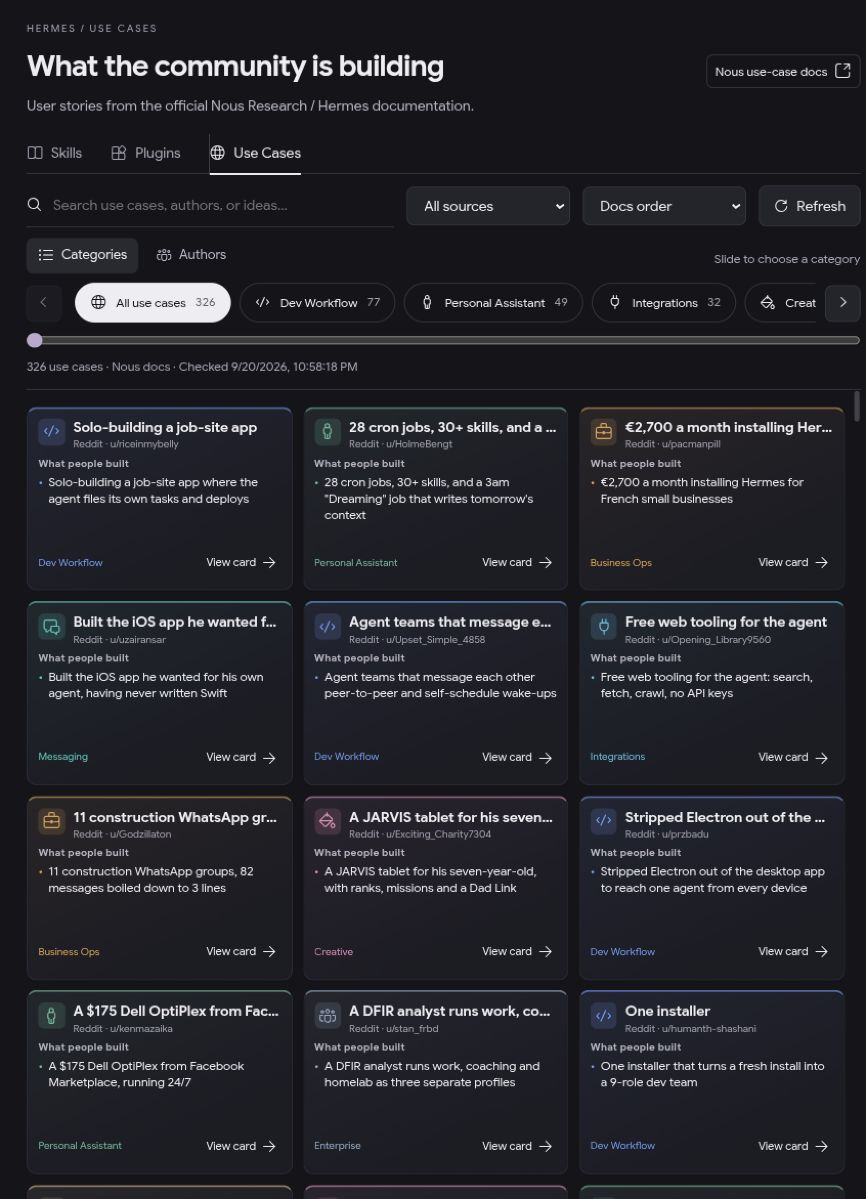
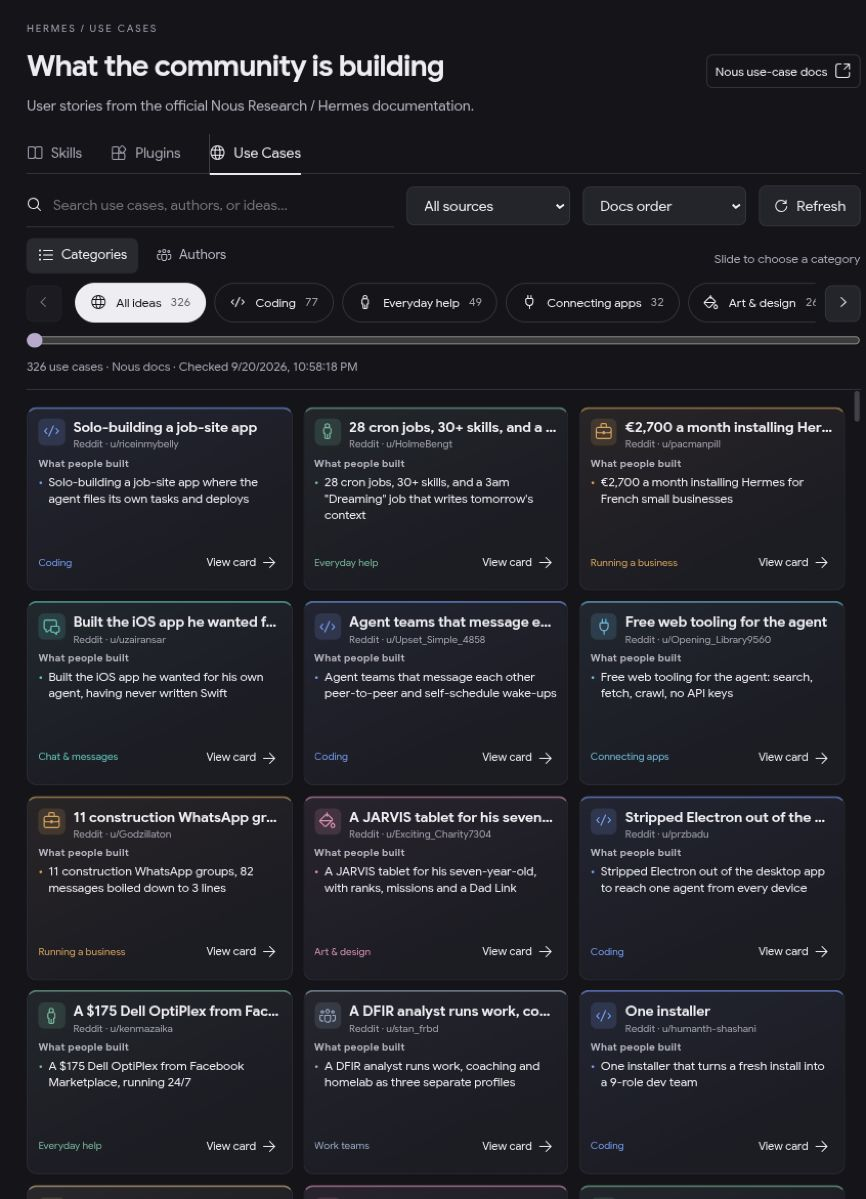
Add build previews and simpler use-case categories

diff --git a/desktop/plugin.js b/desktop/plugin.js
@@ -9,9 +9,15 @@ import {
   DialogContent,
   DialogTitle,
   DialogDescription,
+  Popover, PopoverTrigger, PopoverContent,
 } from "@hermes/plugin-sdk";
 const h = React.createElement;
 const css = `
+.hsl-story-preview{box-sizing:border-box;z-index:100;width:min(360px,calc(100vw - 24px));max-height:min(520px,var(--radix-popover-content-available-height,80vh));overflow:auto;padding:16px;border:1px solid var(--ui-stroke-secondary,#48444f);border-radius:12px;color:var(--ui-text-primary,#eeedf2);background:var(--ui-bg-elevated,#202027);box-shadow:0 16px 48px #0006;font:13px/1.55 system-ui,sans-serif}
+.hsl-story-preview *{box-sizing:border-box}.hsl-story-preview h3{font-size:15px;line-height:1.4;margin:9px 0;overflow-wrap:anywhere}.hsl-story-preview p{margin:8px 0}.hsl-story-preview .preview-kicker{display:flex;align-items:center;justify-content:space-between;gap:10px;font-size:10px;letter-spacing:1px;text-transform:uppercase;color:var(--ui-text-tertiary,#b9b5c6)}
+.hsl-story-preview .preview-meta{color:var(--ui-text-secondary,#bebac9);font-size:11px}.hsl-story-preview blockquote{margin:12px 0 7px;padding:0 0 0 12px;border-left:2px solid var(--preview-accent,#b8aacd);color:var(--ui-text-primary,#eeedf2)}.hsl-story-preview .preview-source{color:var(--ui-text-secondary,#bebac9);font-size:11px}.hsl-story-preview button,.hsl-story-preview a{font:inherit;color:inherit}.hsl-story-preview .preview-close{border:0;background:transparent;color:inherit;cursor:pointer;padding:4px;display:grid;place-items:center}.hsl-story-preview .preview-actions{display:flex;gap:12px;flex-wrap:wrap;align-items:center;margin-top:14px}.hsl-story-preview .project-link{display:inline-flex;align-items:center;gap:6px;font-size:12px;text-decoration:none;border:1px solid var(--ui-stroke-secondary,#48444f);border-radius:6px;padding:7px 10px}.hsl-story-preview a:focus-visible,.hsl-story-preview button:focus-visible{outline:2px solid var(--ui-accent,#b8aacd);outline-offset:3px}
+.hsl-story-preview .preview-video{display:block;position:relative;margin-top:10px;border-radius:8px;overflow:hidden;aspect-ratio:16/9;background:#15151a}.hsl-story-preview .preview-video img{display:block;width:100%;height:100%;object-fit:cover}.hsl-story-preview .preview-video span{position:absolute;bottom:8px;left:8px;padding:3px 7px;border-radius:5px;background:#000c;color:#fff;font-size:11px}
+
 .hsl{height:100%;overflow:auto;color:var(--ui-text-primary,#eeedf2);background:var(--background,#141419);padding:32px clamp(20px,3vw,48px);font:14px/1.55 system-ui,sans-serif;box-sizing:border-box}.hsl *,.hsl-dialog,.hsl-dialog *{box-sizing:border-box}.hsl button,.hsl select,.hsl input,.hsl-dialog button,.hsl-dialog input{font:inherit;color:inherit}.hsl button,.hsl select,.hsl-dialog button{border:1px solid var(--ui-stroke-tertiary,#34343b);border-radius:7px;background:var(--ui-bg-quaternary,#24242b);padding:8px 13px;cursor:pointer}.hsl button:hover,.hsl-dialog button:hover{background:var(--chrome-action-hover,#303038)}.hsl button:disabled,.hsl-dialog button:disabled{opacity:.45;cursor:default}.hsl .primary,.hsl-dialog .primary{background:var(--ui-text-primary,#e9e8ed);color:var(--background,#18181e);border-color:transparent}.hsl .top{display:flex;align-items:center;justify-content:space-between;gap:24px;flex-wrap:wrap}.hsl h1{font-size:29px;letter-spacing:-1px;font-weight:600;margin:0}.hsl h2,.hsl-dialog h2{font-size:22px;letter-spacing:-.5px;margin:8px 0}.hsl p,.hsl-dialog p{margin:5px 0;color:var(--ui-text-secondary,#b8b6c2)}.hsl .eyebrow{font-size:10px;letter-spacing:1.8px;color:var(--ui-text-tertiary,#a6a4b0);margin-bottom:7px}.hsl .target{width:210px}.hsl label,.hsl-dialog label{display:block;font-size:12px;margin-bottom:6px;color:var(--ui-text-secondary,#b8b6c2)}.hsl select{width:100%;min-height:38px}.hsl .toolbar{display:flex;align-items:center;gap:12px;margin:22px 0;flex-wrap:wrap}.hsl input,.hsl-dialog input{min-width:160px;background:transparent;border:1px solid var(--ui-stroke-tertiary,#34343b);border-radius:7px;padding:10px 12px}.hsl .search{flex:1;min-width:220px;display:flex;gap:10px;align-items:center;border-bottom:1px solid var(--ui-stroke-tertiary,#34343b)}.hsl .search input{width:100%;border:0;outline-offset:-2px;padding-left:0}.hsl .filters{display:flex;align-items:center;justify-content:space-between;gap:16px;flex-wrap:wrap;margin-bottom:24px}.hsl .source-filter{width:185px}.hsl .tabs{display:flex;gap:6px;flex-wrap:wrap}.hsl .tabs button{background:transparent;border-color:transparent;color:var(--ui-text-secondary,#b8b6c2)}.hsl .tabs .active{background:var(--ui-bg-quaternary,#292930);color:var(--ui-text-primary,#eeedf2)}.hsl .sections{display:flex;gap:28px;border-bottom:1px solid var(--ui-stroke-tertiary,#34343b);margin-top:28px}.hsl .sections button{border:0;border-radius:0;padding:14px 0;background:transparent;color:var(--ui-text-secondary,#aaa8b5);display:flex;gap:8px;align-items:center}.hsl .sections .active{color:var(--ui-text-primary,#eeedf2);box-shadow:0 2px 0 currentColor}.hsl .grid{display:grid;grid-template-columns:repeat(auto-fill,minmax(min(100%,270px),1fr));gap:16px}.hsl .card{display:flex;flex-direction:column;min-height:192px;padding:22px;border:1px solid var(--ui-stroke-quaternary,#2c2b34);border-radius:12px;background:var(--card,#1c1c23);text-align:left;transition:border-color .15s}.hsl .card:hover{border-color:var(--ui-stroke-primary,#64616f)}.hsl .card-head{display:flex;gap:12px;align-items:center;min-width:0}.hsl .icon{display:grid;place-items:center;flex-shrink:0;width:36px;height:36px;background:var(--ui-bg-quaternary,#292931);border-radius:9px;color:var(--ui-text-secondary,#c5c0d5)}.hsl .name{font-weight:600;font-size:15px;line-height:1.4;overflow-wrap:anywhere}.hsl .source{font-size:11px;color:var(--ui-text-tertiary,#a6a4b0);margin-top:3px}.hsl .desc{font-size:13px;line-height:1.6;margin:16px 0 22px;display:-webkit-box;-webkit-line-clamp:2;-webkit-box-orient:vertical;overflow:hidden;min-height:42px}.hsl .foot{display:flex;justify-content:space-between;align-items:center;gap:8px;margin-top:auto}.hsl .foot button{font-size:12px;padding:5px 0;border:0;background:transparent}.hsl .badge{font-size:11px;color:var(--ui-text-secondary,#b8b6c2)}.hsl .green{color:var(--ui-success,#9ec8ad)}.hsl .amber{color:var(--ui-warning,#d5bb8c)}.hsl .notice,.hsl-dialog .notice{margin:14px 0;padding:14px;border:1px solid var(--ui-stroke-tertiary,#454550);border-radius:8px;white-space:pre-wrap;overflow-wrap:anywhere}.hsl .error,.hsl-dialog .error{color:var(--ui-danger,#e7a1a1)}.hsl .empty{padding:64px 20px;text-align:center}.hsl-dialog{border-radius:12px;width:min(620px,calc(100vw - 32px));max-width:620px;max-height:88vh;overflow:auto;padding:28px;font:14px/1.6 system-ui,sans-serif;color:var(--ui-text-primary,#eeedf2);background:var(--background,#18181e)}.hsl-dialog pre{max-height:40vh;overflow:auto;font:12px/1.7 ui-monospace,monospace;white-space:pre-wrap;overflow-wrap:anywhere;padding:18px;background:var(--ui-bg-quaternary,#22222a);border-radius:8px}.hsl-dialog .detail-actions{display:flex;gap:10px;margin:20px 0 0;align-items:center;flex-wrap:wrap}.hsl .muted,.hsl-dialog .muted{color:var(--ui-text-tertiary,#aaa8b5)}.hsl .counts{font-size:12px;margin:0 0 18px}.hsl .target-hint{font-size:10px;margin-top:6px}.hsl-dialog input{width:100%;margin:4px 0 12px}.hsl button:focus-visible,.hsl input:focus-visible,.hsl select:focus-visible,.hsl-dialog button:focus-visible,.hsl-dialog input:focus-visible{outline:2px solid var(--ui-accent,#b8aacd);outline-offset:3px}@media(min-width:1550px){.hsl .grid{grid-template-columns:repeat(4,minmax(0,1fr))}}@media(max-width:650px){.hsl{padding:20px}.hsl .target{width:100%}.hsl .grid{grid-template-columns:1fr}.hsl .toolbar>button{flex:1}.hsl .search{flex-basis:100%}}
 .hsl{container-type:inline-size;min-width:0;width:100%;overflow-x:hidden}
 .hsl .top>div{min-width:0;max-width:100%}
@@ -6542,12 +6548,82 @@ function storyCardTitle(headline) {
   const clause = headline.split(/: | — | – | where | that | so /)[0].trim();
   return clause.length >= 12 ? clause : headline;
 }
+function storyVideoThumbnail(url) {
+  try {
+    const u = new URL(url);
+    const id = u.hostname === "youtu.be" ? u.pathname.slice(1) : ["youtube.com", "www.youtube.com", "m.youtube.com"].includes(u.hostname) ? u.searchParams.get("v") || u.pathname.match(/^\/(?:shorts|embed)\/([^/]+)$/)?.[1] : "";
+    return u.protocol === "https:" && /^[A-Za-z0-9_-]{11}$/.test(id || "") ? `https://i.ytimg.com/vi/${id}/hqdefault.jpg` : "";
+  } catch { return ""; }
+}
+const STORY_PREVIEWS = new Map();
+function StoryPreviewButton({ ctx, story, revision, onDetails }) {
+  const [open, setOpen] = useState(false), [preview, setPreview] = useState(null), [failed, setFailed] = useState(false), [imageFailed, setImageFailed] = useState(false);
+  const timer = useRef(null), trigger = useRef(null), content = useRef(null), pointer = useRef("");
+  const cancelTimer = () => { clearTimeout(timer.current); };
+  const close = () => { cancelTimer(); setOpen(false); };
+  const laterClose = () => { cancelTimer(); timer.current = setTimeout(() => setOpen(false), 220); };
+  useEffect(() => () => clearTimeout(timer.current), []);
+  useEffect(() => {
+    if (!open) return;
+    let alive = true;
+    setFailed(false); setPreview(null);
+    const key = revision + ":" + story.id;
+    let request = STORY_PREVIEWS.get(key);
+    if (!request) {
+      request = Promise.resolve().then(() => ctx.rest("/community/preview?id=" + encodeURIComponent(story.id)));
+      STORY_PREVIEWS.set(key, request);
+      request.catch(() => STORY_PREVIEWS.delete(key));
+    }
+    request.then(value => {
+      if (alive) {
+        if (!value || typeof value.excerpt !== "string") { setFailed(true); return; }
+        setPreview(value);
+      }
+    }).catch(() => { if (alive) setFailed(true); });
+    const dismissOnScroll = event => { if (!content.current?.contains(event.target)) close(); };
+    document.addEventListener("wheel", dismissOnScroll, true);
+    document.addEventListener("touchmove", dismissOnScroll, true);
+    window.addEventListener("resize", close);
+    return () => { alive = false; document.removeEventListener("wheel", dismissOnScroll, true); document.removeEventListener("touchmove", dismissOnScroll, true); window.removeEventListener("resize", close); };
+  }, [open, ctx, story.id, revision]);
+  const thumbnail = storyVideoThumbnail(story.url);
+  return h(Popover, { open, onOpenChange: value => { if (!value) close(); } },
+    h(PopoverTrigger, { asChild: true }, h("button", {
+      ref: trigger, "aria-label": "View card: " + story.name,
+      onPointerEnter: event => { if (event.pointerType === "mouse") { cancelTimer(); timer.current = setTimeout(() => setOpen(true), 300); } },
+      onPointerLeave: laterClose,
+      onPointerDown: event => { pointer.current = event.pointerType; },
+      onFocus: () => { if (pointer.current !== "touch") { cancelTimer(); setOpen(true); } },
+      onBlur: event => { pointer.current = ""; if (!content.current?.contains(event.relatedTarget)) laterClose(); },
+      onClick: event => { event.preventDefault(); close(); onDetails(); }
+    }, "View card", icon("arrow-right"))),
+    h(PopoverContent, {
+      ref: content, className: "hsl-story-preview", "aria-label": "Build preview: " + story.name,
+      side: "top", align: "end", sideOffset: 8, collisionPadding: 12,
+      style: { "--preview-accent": story.color },
+      onOpenAutoFocus: event => event.preventDefault(), onCloseAutoFocus: event => event.preventDefault(),
+      onPointerEnter: cancelTimer, onPointerLeave: laterClose,
+      onFocusCapture: cancelTimer, onBlurCapture: event => { if (!content.current?.contains(event.relatedTarget) && event.relatedTarget !== trigger.current) laterClose(); }
+    },
+      h("div", { className: "preview-kicker" }, "Build preview", h("button", { className: "preview-close", "aria-label": "Close build preview", onClick: close }, icon("close"))),
+      h("h3", null, story.name), h("p", { className: "preview-meta" }, `${story.source} · ${story.author} · ${story.date}`),
+      thumbnail && !imageFailed && h("div", { className: "preview-video" }, h("img", { src: thumbnail, alt: "Video thumbnail for " + story.name, referrerPolicy: "no-referrer", onError: () => setImageFailed(true) }), h("span", null, "Video preview · YouTube")),
+      preview?.excerpt ? h(React.Fragment, null, h("blockquote", null, preview.excerpt), h("p", { className: "preview-source" }, "Story excerpt · via Nous docs")) : h("p", { className: "preview-source", role: "status" }, failed ? "Preview unavailable. Open the original story to see the build." : preview ? "Open the original story to see this build." : "Loading story preview…"),
+      h("div", { className: "preview-actions" }, h(ProjectLink, { ctx, url: story.url }, thumbnail ? "Watch original video" : "Open original story"), h(ProjectLink, { ctx, url: story.docs_url }, "Nous docs"))));
+}
 function validStoryDirectory(data) {
   return data && Array.isArray(data.projects) && data.projects.length > 0 && Array.isArray(data.categories)
     && data.source_url === COMMUNITY_DIRECTORY.source_url && typeof data.checked_on === "string"
     && data.projects.every(p => p && ["id", "name", "author", "category", "source", "description", "url", "docs_url"].every(k => typeof p[k] === "string") && Array.isArray(p.highlights))
     && data.categories.every(c => c && typeof c.id === "string" && typeof c.label === "string");
 }
+const STORY_CATEGORY_LABELS = {
+  "dev-workflow": "Coding", "personal-assistant": "Everyday help",
+  integrations: "Connecting apps", creative: "Art & design", "business-ops": "Running a business",
+  meta: "Community projects", "cost-optimization": "Saving money", privacy: "Privacy & control",
+  "content-creation": "Making content", research: "Learning & research", enterprise: "Work teams",
+  messaging: "Chat & messages", general: "Other ideas", trading: "Trading & investing", marketing: "Promoting your work"
+};
 function Community({ ctx, onSection }) {
   const [data, setData] = useState(COMMUNITY_DIRECTORY);
   const [refreshing, setRefreshing] = useState(false), [refreshNote, setRefreshNote] = useState(""), [refreshError, setRefreshError] = useState(false);
@@ -6583,7 +6659,10 @@ function Community({ ctx, onSection }) {
       if (generation === requestGeneration.current) setRefreshing(false);
     }
   }
-  const categories = [{ id: "all", label: "All use cases", icon: "globe" }, ...data.categories];
+  const categories = [{ id: "all", label: "All ideas", icon: "globe" }, ...data.categories.map(c => ({
+    ...c, label: STORY_CATEGORY_LABELS[c.id] || c.label,
+    fullLabel: STORY_CATEGORY_LABELS[c.id] ? `${STORY_CATEGORY_LABELS[c.id]} · ${c.label}` : c.label
+  }))];
   const [query, setQuery] = useState(""), [category, setCategory] = useState("all"), [author, setAuthor] = useState("");
   const [mode, setMode] = useState("categories"), [sort, setSort] = useState("curated"), [selected, setSelected] = useState(null);
   const [storySource, setStorySource] = useState("");
@@ -6633,8 +6712,8 @@ function Community({ ctx, onSection }) {
                 h("span", { className: "summary-dot", "aria-hidden": true }, "•"),
                 h("span", { className: "summary-text", title: p.name }, p.name)))),
           h("div", { className: "foot" },
-            h("span", { className: "badge", title: categories.find(c => c.id === p.category)?.label }, categories.find(c => c.id === p.category)?.label),
-            h("button", { onClick: () => setSelected(p), "aria-label": "View card: " + p.name }, "View card", icon("arrow-right")))))) : h("div", { className: "empty" }, h("p", null, "No matching use cases. Try another author, category, source, or search."), h("button", { onClick: clear }, "Reset browsing")),
+            h("span", { className: "badge", title: categories.find(c => c.id === p.category)?.fullLabel }, categories.find(c => c.id === p.category)?.label),
+            h(StoryPreviewButton, { ctx, story: p, revision: data.source_revision, onDetails: () => setSelected(p) }))))) : h("div", { className: "empty" }, h("p", null, "No matching use cases. Try another author, category, source, or search."), h("button", { onClick: clear }, "Reset browsing")),
         h("div", { className: "community-bottom" }, h("p", { className: "muted" }, "Stories from the official docs. Refresh to check for updates. Stories describe users’ experiences; inclusion is not independent verification or endorsement."),
           h(ProjectLink, { ctx, url: data.source_url }, "Browse Nous docs")))),
     h(Dialog, { open: !!selected, onOpenChange: open => { if (!open) setSelected(null); } },

diff --git a/preview/sdk.js b/preview/sdk.js
@@ -1,5 +1,5 @@
 import React from "react";
-import { Dialog as RadixDialog } from "radix-ui";
+import { Dialog as RadixDialog, Popover as RadixPopover } from "radix-ui";
 export const host = {
   state: {
     profile: { get: () => "default", listen: () => () => {} },
@@ -39,4 +39,10 @@ export function DialogContent({ children, ...props }) {
       children,
     ),
   );
+}
+
+export const Popover = RadixPopover.Root, PopoverTrigger = RadixPopover.Trigger;
+export function PopoverContent({ children, ...props }) {
+  return React.createElement(RadixPopover.Portal, null,
+    React.createElement(RadixPopover.Content, props, children));
 }

diff --git a/dashboard/stories.py b/dashboard/stories.py
@@ -144,3 +144,29 @@ def refresh():
         return data
     finally:
         _REFRESH_LOCK.release()
+
+
+_PREVIEW_LOCK = threading.Lock()
+_PREVIEW_CACHE = ('', {})
+
+
+def story_preview(identifier, revision):
+    """Lazy, short excerpts from a fixed official revision; never fetch arbitrary story URLs."""
+    global _PREVIEW_CACHE
+    if not re.fullmatch(r'[0-9a-f]{40}', revision):
+        raise ValueError('Invalid official revision')
+    with _PREVIEW_LOCK:
+        if _PREVIEW_CACHE[0] != revision:
+            rows = fetch_json(f'https://raw.githubusercontent.com/NousResearch/hermes-agent/{revision}/{_DATA_PATH}')
+            convert(rows, revision)
+            previews = {}
+            for row in rows:
+                quote = row.get('quote')
+                words = quote.split() if isinstance(quote, str) else []
+                # A brief attributed excerpt, not a reproduction of the original post.
+                excerpt = ' '.join(words[:24])
+                if len(words) > 24:
+                    excerpt += '…'
+                previews[row['id']] = {'excerpt': excerpt, 'url': row['url'], 'author': row['author']}
+            _PREVIEW_CACHE = (revision, previews)
+        return _PREVIEW_CACHE[1].get(identifier, {'excerpt': ''})

diff --git a/test_library.py b/test_library.py
@@ -63,6 +63,18 @@ class LibraryTest(unittest.TestCase):
             self.assertEqual(client.get('/community?refresh=true').status_code, 502)
             self.assertEqual(client.get('/community').status_code, 200)
 
+    def test_story_preview_uses_only_known_story_and_fixed_revision(self):
+        from unittest.mock import patch
+        data = client.get('/community').json()
+        with patch.object(api._stories, 'story_preview', return_value={'excerpt': 'A brief source preview.'}) as preview:
+            response = client.get('/community/preview', params={'id': data['projects'][0]['id']})
+            self.assertEqual(response.status_code, 200)
+            preview.assert_called_once_with(data['projects'][0]['id'], data['source_revision'])
+            self.assertEqual(client.get('/community/preview', params={'id': 'https://example.com'}).status_code, 404)
+            self.assertEqual(preview.call_count, 1)
+        with patch.object(api._stories, 'story_preview', side_effect=TimeoutError('offline')):
+            self.assertEqual(client.get('/community/preview', params={'id': data['projects'][0]['id']}).status_code, 502)
+
     @classmethod
     def setUpClass(cls):
         cls.source = root/'source'

diff --git a/test_stories.py b/test_stories.py
@@ -80,6 +80,21 @@ class StoriesTest(unittest.TestCase):
         with self.assertRaises(ValueError):
             stories.NoRedirect().redirect_request(None, None, 302, None, None, 'https://example.com')
 
+    def test_preview_is_short_and_cached_by_revision(self):
+        stories._PREVIEW_CACHE = ('', {})
+        row = {**STORY, 'quote': ' '.join('word' + str(i) for i in range(50))}
+        with patch.object(stories, 'fetch_json', return_value=[row]) as fetch:
+            preview = stories.story_preview(row['id'], SHA)
+            self.assertEqual(len(preview['excerpt'].split()), 24)
+            self.assertTrue(preview['excerpt'].endswith('…'))
+            self.assertEqual(preview['author'], row['author'])
+            self.assertEqual(preview['url'], row['url'])
+            self.assertEqual(stories.story_preview(row['id'], SHA), preview)
+            fetch.assert_called_once()
+        self.assertFalse(self.path.exists())
+        with self.assertRaises(ValueError):
+            stories.story_preview(row['id'], '../main')
+
     def test_write_failure_preserves_cache(self):
         self.refresh()
         saved = self.path.read_bytes()

diff --git a/dashboard/plugin_api.py b/dashboard/plugin_api.py
@@ -41,6 +41,17 @@ async def community(refresh: bool = False):
     return await asyncio.to_thread(_stories.read_cached) or json.loads(Path(__file__).with_name('community.json').read_text())
 
 
+@router.get('/community/preview')
+async def community_preview(id: str):
+    data = await community()
+    if not any(p['id'] == id for p in data['projects']):
+        raise HTTPException(404, 'This story is no longer in the collection.')
+    try:
+        return await asyncio.to_thread(_stories.story_preview, id, data['source_revision'])
+    except Exception as exc:
+        raise HTTPException(502, 'Story preview unavailable. Open the original story instead.') from exc
+
+
 def sources():
     """Explicit local roots; no client-supplied filesystem paths."""
     cfg = Path(__file__).with_name('sources.local.json')

diff --git a/README.md b/README.md
@@ -19,7 +19,7 @@ This is an independent plugin by Bikash Joshi. It does not replace Hermes' built
 
 ## Requirements and status
 
-**Early community release, v0.5.1.** Tested on Linux (Omarchy), with Hermes source revision `bce20d0b1f08518b499d06109f2b027519ddeca5`. macOS and Windows are not yet verified. Hermes' internal Python and Desktop SDK APIs can change between updates.
+**Early community release, v0.5.2.** Tested on Linux (Omarchy), with Hermes source revision `bce20d0b1f08518b499d06109f2b027519ddeca5`. macOS and Windows are not yet verified. Hermes' internal Python and Desktop SDK APIs can change between updates.
 
 You need a working Hermes Desktop installation and access to its Python environment. This repository contains the plugin; it does not bundle Hermes, third-party skills, credentials, or connector packages.
 
@@ -51,11 +51,11 @@ Cards use author metadata exactly as supplied. Short labels are presentation onl
 
 ## Use cases from the Nous docs
 
-Open **Use Cases** beside Skills and Plugins to browse [Nous Research’s official User Stories & Use Cases collection](https://hermes-agent.nousresearch.com/docs/user-stories). This snapshot contains 326 stories across 15 categories, arranged in the same compact 180px flashcards as Skills and Plugins, with colorful category icons and a brief “What people built” bullet. Search by headline or author, filter by source, switch Categories / Authors, or sort A–Z. **View card** opens the full headline, author and source details; **Read original story** in that dialog opens the post linked by Nous; **Nous use-case docs** opens the official collection.
+Open **Use Cases** beside Skills and Plugins to browse [Nous Research’s official User Stories & Use Cases collection](https://hermes-agent.nousresearch.com/docs/user-stories). This snapshot contains 326 stories across 15 categories, arranged in the same compact 180px flashcards as Skills and Plugins, with colorful category icons and a brief “What people built” bullet. Search by headline or author, filter by source, switch Categories / Authors, or sort A–Z. Category labels use plain language such as Coding, Everyday help, Connecting apps and Saving money; tooltips preserve the original Nous category names. **View card** shows a floating preview on hover or keyboard focus: a brief attributed story excerpt, plus the original video thumbnail for YouTube entries. Click it to open the full headline, author and source details; **Read original story** in that dialog opens the post linked by Nous; **Nous use-case docs** opens the official collection.
 
 ![Use cases from the Nous docs](docs/community.png)
 
-Only entries from the official docs dataset are included. Titles, authors, categories, dates and source links are preserved; original post quotations are not copied. These are attributed user experiences, not independently verified outcomes. Counts initially reflect the bundled snapshot or your last saved refresh.
+Only entries from the official docs dataset are included. Titles, authors, categories, dates and source links are preserved; full original posts are not bundled. Optional previews retrieve only a short attributed excerpt from the official dataset. These are attributed user experiences, not independently verified outcomes. Counts initially reflect the bundled snapshot or your last saved refresh.
 
 **Refresh** checks the latest official Nous docs dataset, updates cards without clearing your filters, and shows the last successful check time. New stories, categories and sources become browsable immediately. The last successful collection is saved locally for reopening the tab; a failed refresh keeps existing cards visible. Refresh needs a working plugin backend and internet connection.
 

diff --git a/docs/AUDIT.md b/docs/AUDIT.md
@@ -79,3 +79,11 @@ Use Cases now shares Skills and Plugins card geometry: 180px height, 200px minim
 Added an explicit Refresh action with a disabled loading state, last successful check time, new-story count and recoverable errors. Downloads are limited to the official Nous GitHub revision API and the story file at that immutable revision. Validated metadata is saved atomically; initial rendering still uses bundled cards, with optional cached updates. New categories and sources are included in the browsing controls.
 
 Validation: all 20 Python tests passed, covering refresh persistence, no quotation persistence, invalid/oversized data, timeouts, write failures, concurrent refreshes, new categories, API errors, installer behavior and profile isolation. JavaScript checks, the backend-independent render regression and preview build passed. The live preview refreshed successfully from Nous, preserved the YouTube filter (17 results), retained its check time after reopening, and kept 326 cards visible when an older backend could not refresh. At 390×844, the button remained visible with no horizontal overflow or card-content overlap. Native Desktop loading still requires reopening the application after installing the updated backend.
+
+## 0.5.2 Build previews and plain-language categories
+
+Added delayed pointer-hover and keyboard-focus previews using the existing Desktop SDK Popover. The floating panel uses collision detection, short attributed excerpts from the official dataset, original-source links and real YouTube thumbnails. The grid size stays unchanged. Plain-language category labels replace jargon in chips and card footers while preserving Nous category IDs, counts and original names in tooltips.
+
+Validation: all 22 Python tests passed, including fixed-revision preview requests, unknown-ID rejection, excerpt limits, in-memory caching and network failure behavior. JavaScript checks, backend-independent rendering, thumbnail URL validation and preview build passed. Browser checks verified live Reddit excerpts, a loaded YouTube thumbnail, keyboard opening, Escape dismissal, click-through to the existing details dialog and viewport containment at normal width and 390×844. Native Desktop behavior requires reopening the installed plugin; pointer-hover handlers use the same preview path but were not directly exercised by the available browser automation.
+
+![Build preview](build-preview.png)

diff --git a/docs/OPERATIONS.md b/docs/OPERATIONS.md
@@ -23,3 +23,7 @@ To recover, disable this plugin and reopen Hermes. Installed skills and other pl
 The Use Cases tab serves a bundled snapshot of the official Nous documentation’s user stories without reading profiles or contacting project sites. External links open only when clicked (through the Desktop SDK on supported hosts, normal links in the browser preview). Clicking Refresh contacts the fixed official Nous GitHub commit API and downloads its story metadata from that immutable revision. It does not fetch individual posts or use a GitHub token. Requests have timeouts and size limits; invalid or failed updates keep the previous collection. Successful metadata is saved atomically under `$HERMES_HOME/cache/hermes-skills-library/user-stories.json` (default `~/.hermes/cache/hermes-skills-library/user-stories.json`). Reopening reads that cache without contacting Nous. New installs and unavailable/corrupt caches fall back to the bundled snapshot. GitHub rate limits or network outages can prevent a refresh; retry later. The preview allows this catalog refresh while continuing to block installation writes. Inclusion does not establish installability or compatibility.
 
 Community ships inside the Desktop entry as of 0.4.1; it does not wait on a backend route. If upgrading from 0.4.0, reload the Desktop plugin or reopen Desktop to load the new JavaScript. The public `/community` backend route remains available for consumers.
+
+### Build previews
+
+Hovering or focusing View card opens a non-modal preview using the Desktop SDK popover. Brief story excerpts load lazily from the fixed official dataset revision, are held in memory, and are never saved as full quotations. Preview requests accept only an ID from the current collection, never a caller-provided URL. YouTube thumbnails load directly from `i.ytimg.com` only when a preview opens, with no referrer. There are no embedded players, autoplay, external page scraping or generated screenshots. Missing content falls back to the original-story link. Escape, close, pointer exit and scrolling outside the preview dismiss it; clicking View card retains the details dialog on mouse and touch devices.

diff --git a/THIRD_PARTY_NOTICES.md b/THIRD_PARTY_NOTICES.md
@@ -31,7 +31,7 @@ SOFTWARE.
 
 ## Official Hermes use-case metadata
 
-Story titles, authors, categories, dates and source links are adapted from the [Nous Research documentation dataset](https://github.com/NousResearch/hermes-agent/blob/299c652a66bcc915a2a1e10cd2b648f196ec4bba/website/src/data/userStories.json). Original third-party post quotations are not reproduced; readers follow the original links. Snapshot provenance is recorded in `dashboard/community.json`.
+Story titles, authors, categories, dates and source links are adapted from the [Nous Research documentation dataset](https://github.com/NousResearch/hermes-agent/blob/299c652a66bcc915a2a1e10cd2b648f196ec4bba/website/src/data/userStories.json). Full third-party posts are not bundled. On opening a preview, a brief attributed excerpt (at most 24 words) may be retrieved from the official dataset, with a link to its original source. YouTube previews load the original video thumbnail directly from YouTube; these images are not bundled. Snapshot provenance is recorded in `dashboard/community.json`.
 
 MIT License
 
